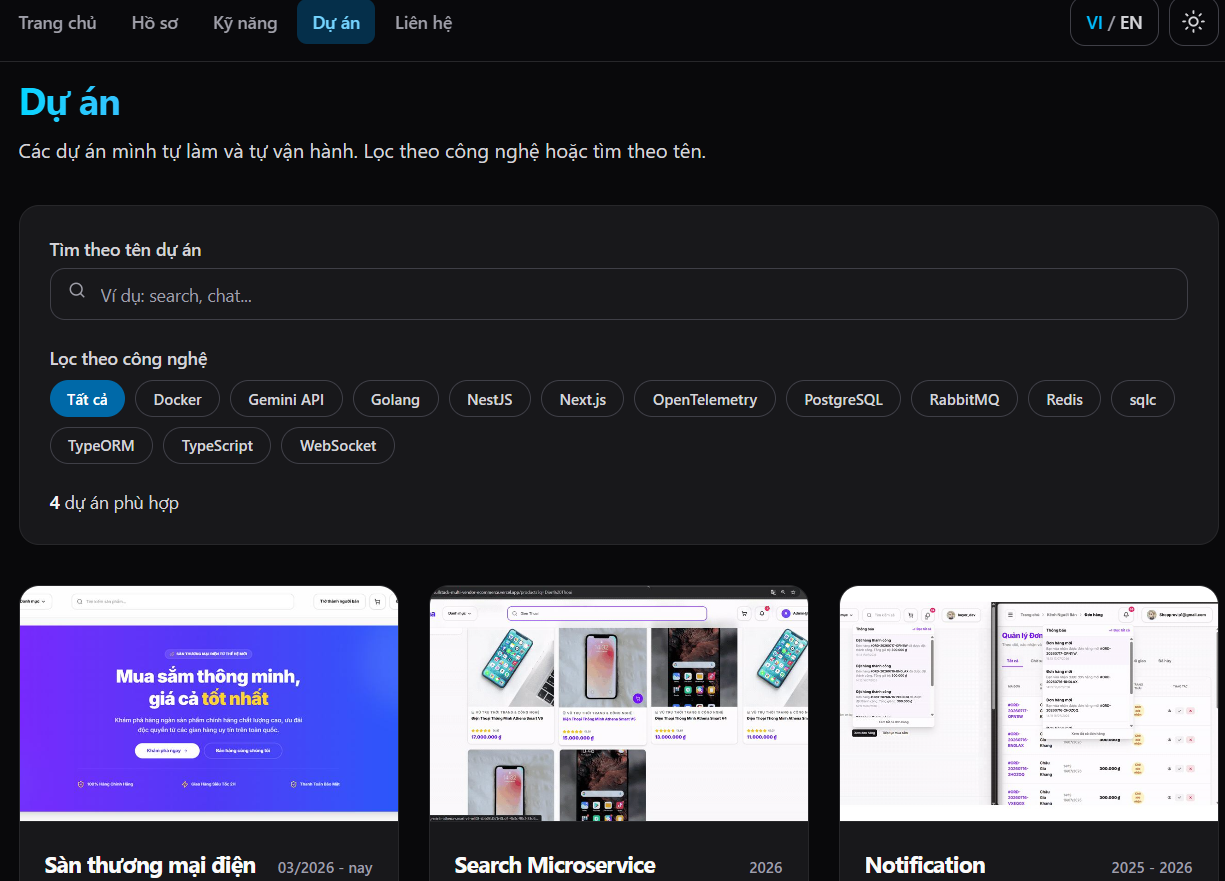
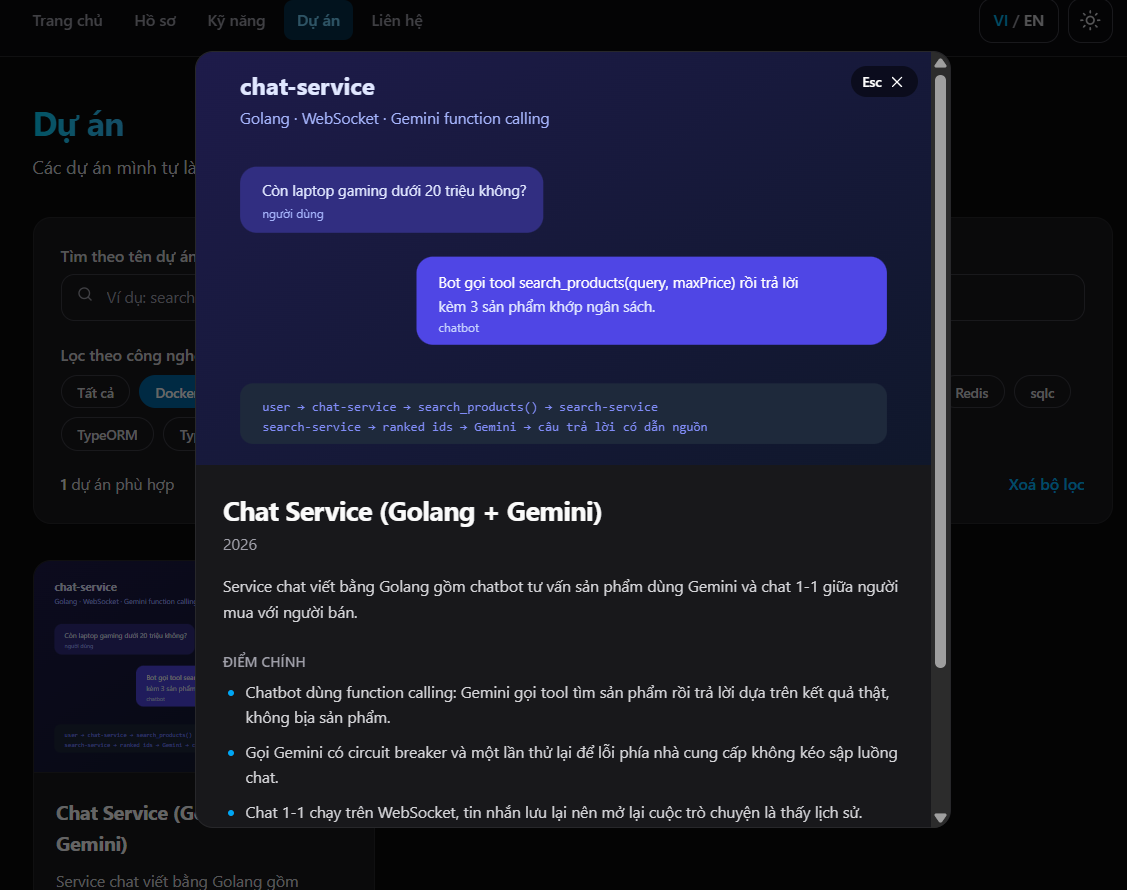
style(dialog): move the close button onto the top-right of the cover image

diff --git a/src/components/ProjectDialog.tsx b/src/components/ProjectDialog.tsx
@@ -51,32 +51,30 @@ export function ProjectDialog({ project, onClose }: ProjectDialogProps) {
       className="m-auto w-[min(42rem,92vw)] rounded-2xl border border-zinc-200 bg-white p-0 text-zinc-700 backdrop:bg-black/60 dark:border-zinc-800 dark:bg-zinc-900 dark:text-zinc-300"
     >
       <div className="max-h-[85vh] overflow-y-auto">
-        <img
-          src={project.thumbnail}
-          alt={t(project.thumbnailAlt)}
-          className="aspect-16/9 w-full border-b border-zinc-200 object-cover dark:border-zinc-800"
-        />
+        <div className="relative">
+          <img
+            src={project.thumbnail}
+            alt={t(project.thumbnailAlt)}
+            className="aspect-16/9 w-full border-b border-zinc-200 object-cover dark:border-zinc-800"
+          />
+
+          {/* Nam de len goc anh: khong chen cho tieu de, va la cho mat nguoi ta tim dau tien */}
+          <button
+            type="button"
+            onClick={onClose}
+            className="absolute top-3 right-3 flex items-center gap-1.5 rounded-full bg-black/50 px-2.5 py-1.5 text-xs font-medium text-white backdrop-blur-sm transition-colors hover:bg-black/70"
+            aria-label={t(ui.projects.close)}
+          >
+            <kbd className="hidden font-sans sm:inline">Esc</kbd>
+            <CloseIcon className="h-4 w-4" />
+          </button>
+        </div>
 
         <div className="p-5 sm:p-6">
-          <div className="flex items-start justify-between gap-4">
-            <div>
-              <h2 id="project-dialog-title" className="text-xl sm:text-2xl">
-                {t(project.name)}
-              </h2>
-              <p className="mt-1 text-sm text-muted">{project.year}</p>
-            </div>
-
-            {/* Nut dong de nhe: khong vien, chi hien nen khi ro chuot hoac focus */}
-            <button
-              type="button"
-              onClick={onClose}
-              className="-mt-1 -mr-1 flex shrink-0 items-center gap-1.5 rounded-full px-2.5 py-1.5 text-xs font-medium text-zinc-500 transition-colors hover:bg-zinc-100 hover:text-zinc-700 dark:text-zinc-400 dark:hover:bg-zinc-800 dark:hover:text-zinc-200"
-              aria-label={t(ui.projects.close)}
-            >
-              <kbd className="hidden font-sans sm:inline">Esc</kbd>
-              <CloseIcon className="h-4 w-4" />
-            </button>
-          </div>
+          <h2 id="project-dialog-title" className="text-xl sm:text-2xl">
+            {t(project.name)}
+          </h2>
+          <p className="mt-1 text-sm text-muted">{project.year}</p>
 
           <p className="mt-4 text-sm leading-relaxed">{t(project.summary)}</p>
 
